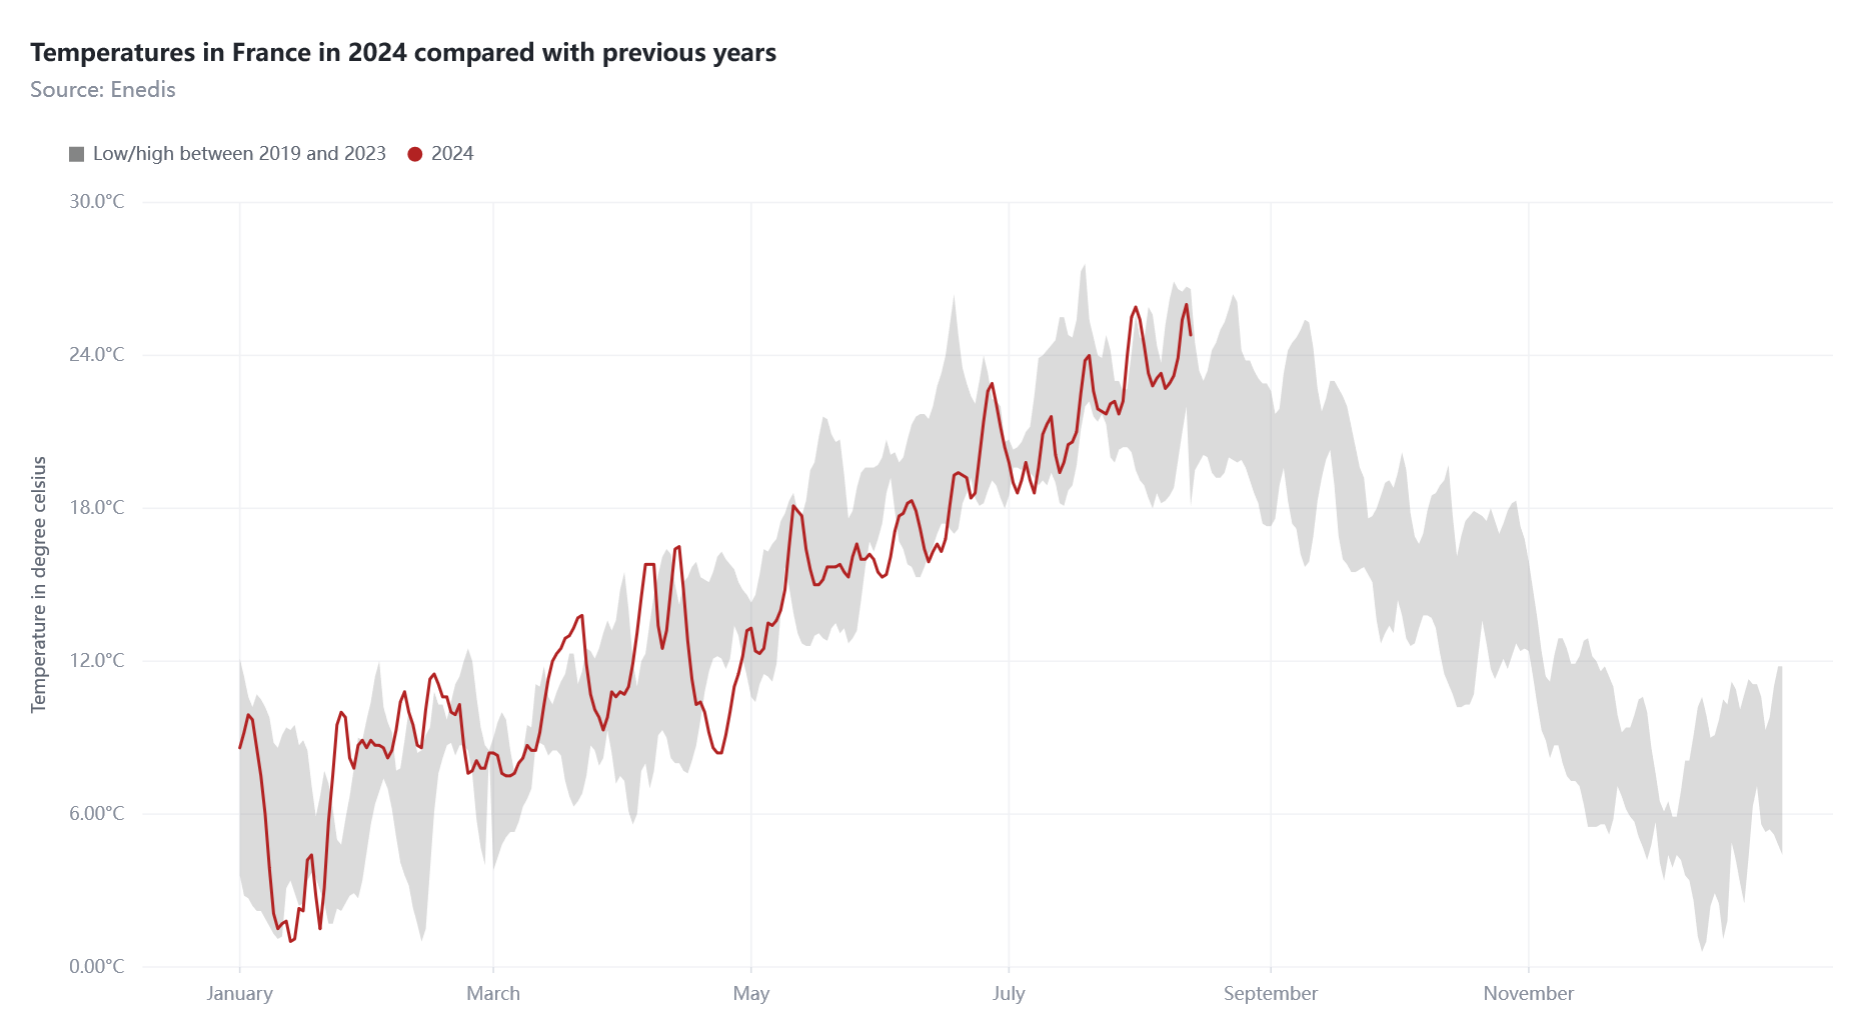
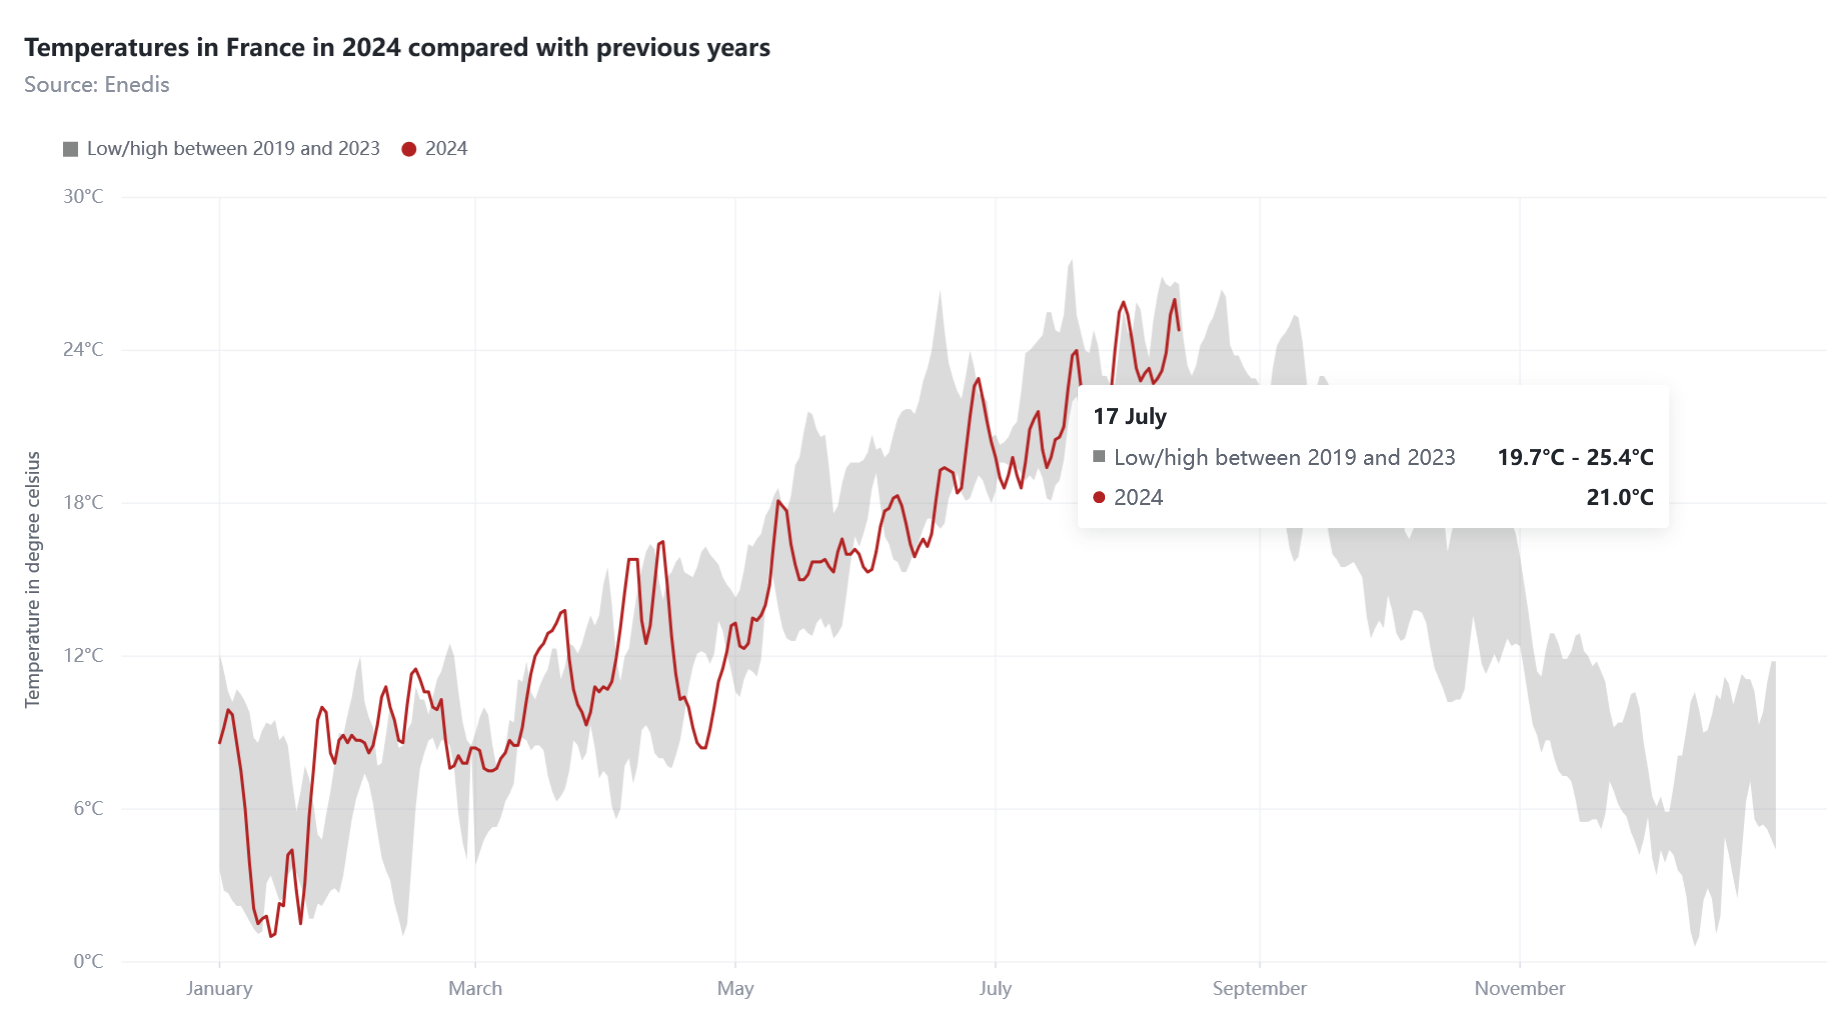
updated readme

diff --git a/README.md b/README.md
@@ -91,7 +91,8 @@ vchart(temperatures, aes(date)) %>%
   ) %>% 
   v_scale_y_continuous(
     name = "Temperature in degree celsius",
-    labels = format_num_d3(".3r", suffix = "°C")
+    labels = format_num_d3(".0f", suffix = "°C"),
+    labels_tooltip = format_num_d3(".3r", suffix = "°C")
   ) %>% 
   v_labs(
     title = "Temperatures in France in 2024 compared with previous years",
@@ -102,7 +103,6 @@ vchart(temperatures, aes(date)) %>%
     orient = "top",
     position = "left"
   )
-
 ```
 
 
